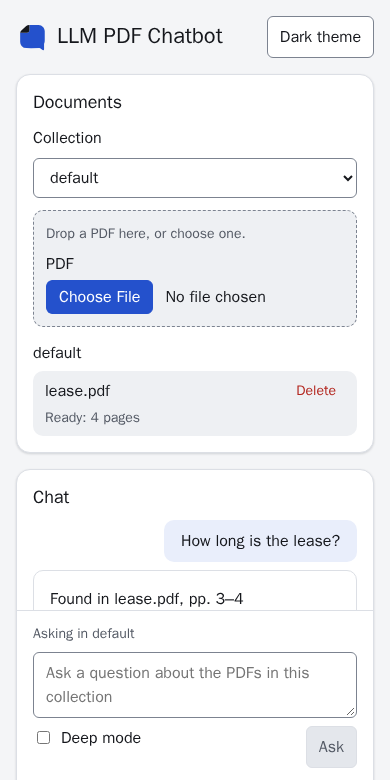
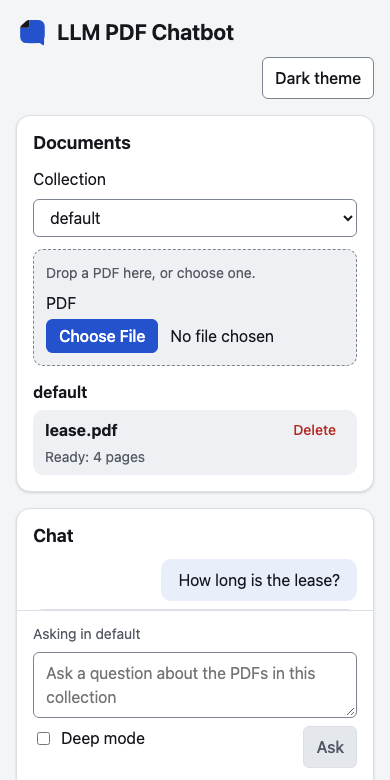
README demo GIF: every frame at 1280x800; refuse to write a GIF with mixed frame sizes
The last frame was captured after the phone shot at 960x640, so browsers painted it over the corner of the previous 1280x800 frame and the loop ended in a jumble. The capture now returns to the desktop size and the top of the page before that frame, and stops with an error if the frames differ in size.

diff --git a/frontend/e2e/capture/capture.spec.ts b/frontend/e2e/capture/capture.spec.ts
@@ -83,7 +83,10 @@ test('captures the README screenshots and GIF', async ({ page, api }) => {
   await page.setViewportSize({ width: 390, height: 780 })
   await page.evaluate(() => window.scrollTo(0, 0))
   await page.screenshot({ path: OUT + README_IMAGES.phone })
-  await page.setViewportSize({ width: 960, height: 640 })
+  // Back to the desktop size before the last GIF frame: every frame must share one size,
+  // or a browser paints a smaller frame over the corner of the one before it.
+  await page.setViewportSize({ width: 1280, height: 800 })
+  await page.evaluate(() => window.scrollTo(0, 0))
 
   const chip = answer.getByRole('note', { name: 'Citation' }).first()
   await chip.click()
@@ -94,6 +97,9 @@ test('captures the README screenshots and GIF', async ({ page, api }) => {
   await snap()
 
   // GIF: one frame per step, 1.2 s each, the last held longer.
+  const sizes = new Set(frames.map((buf) => { const { width, height } = PNG.sync.read(buf); return `${width}x${height}` }))
+  if (sizes.size !== 1) throw new Error(`GIF frames differ in size (${[...sizes].join(', ')}); refusing to write demo.gif`)
+
   const gif = GIFEncoder()
   frames.forEach((buf, i) => {
     const { data, width, height } = PNG.sync.read(buf)
